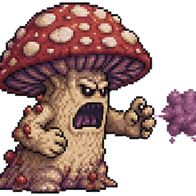
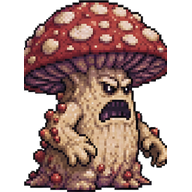
Arregla el jefe que miraba al revés y la serpiente gigante
TRES BUGS, LOS TRES MÍOS.

1. El jefe miraba siempre para el mismo lado.
   boss.js calculaba `e.facing` en update y el draw lo ignoraba: nunca hacía
   scale(-1,1). Con alien.png no se notaba; con un hongo que tiene cara, canta.

2. El jefe cambiaba de aspecto al atacar.
   Usé cuadros de hongoAttack.png, que es OTRO hongo: cap más claro, cuerpo
   verdoso, ojos verdes y esporas verdes, contra el cap oscuro y el cuerpo
   leñoso de hongo.png/hongo2.png. Ahora las cuatro animaciones salen del mismo
   diseño. Y el cuadro que había puesto como "golpeado" era en realidad el que
   LANZA la espora — por eso parecía que disparaba al recibir daño.

3. La serpiente del nivel 2 se veía enorme.
   serpiente.js escala por el alto DE LA IMAGEN (`dh = h*2.8; dw = dh*ar`), así
   que el aire del PNG no es relleno inocente: es la calibración del tamaño en
   pantalla. El sprite viejo tenía 40% de aire y al recortar al contenido la
   serpiente pasó a dibujarse 1,7 veces más grande.

   Se restauró el encuadre: el bicho vuelve a ocupar el 60% del alto, que es lo
   que tenía el idle original. De paso queda parejo entre animaciones — el arte
   viejo iba de 40% a 68% según el estado, o sea que ya cambiaba de tamaño solo.
   Mismo arreglo en el fantasma (82%, como el original).

Se suma pad_to_content_fraction() a la herramienta, que es lo que faltaba para
esta familia de enemigos.

NOTA: el jefe no dispara nada. boss.js sólo tiene patrullar, perseguir,
[…]

diff --git a/js/enemies/boss.js b/js/enemies/boss.js
@@ -17,7 +17,7 @@ const Boss = (() => {
   const ANIMS = {
     idle:   ['hongo_idle0', 'hongo_idle01'],
     walk:   ['hongo_walk0', 'hongo_walk01', 'hongo_walk02', 'hongo_walk03'],
-    attack: ['hongo_attack0', 'hongo_attack01', 'hongo_attack02', 'hongo_attack03'],
+    attack: ['hongo_attack0', 'hongo_attack01', 'hongo_attack02'],
     hit:    ['hongo_hit0'],
   };
   const FPS = { idle: 4, walk: 8, attack: 10, hit: 6 };
@@ -175,7 +175,10 @@ const Boss = (() => {
     ctx.translate(x + w/2, y + h/2 + bob);
 
     const scale = 1 + (bossPhase - 1) * 0.08;
-    ctx.scale(scale, scale);
+    // Los sprites miran a la DERECHA; se espeja cuando camina hacia la izquierda.
+    // Antes no se espejaba nunca: `facing` se calculaba en update y el draw lo
+    // ignoraba, así que el jefe siempre miraba para el mismo lado.
+    ctx.scale(scale * (e.facing === -1 ? -1 : 1), scale);
 
     // Nube de esporas. Antes era un aura verde alienígena; ahora acompaña al
     // hongo y se pone más densa a medida que se enoja.

diff --git a/js/asset_loader.js b/js/asset_loader.js
@@ -66,7 +66,6 @@ const AssetLoader = (() => {
       { key:'hongo_attack0', src:'img/hongo_attack0.png' },
       { key:'hongo_attack01', src:'img/hongo_attack01.png' },
       { key:'hongo_attack02', src:'img/hongo_attack02.png' },
-      { key:'hongo_attack03', src:'img/hongo_attack03.png' },
       { key:'hongo_hit0', src:'img/hongo_hit0.png' },
       // Mecánicas nivel 1
       { key:'caja_cerrada', src:'img/caja_cerrada.png' },

diff --git a/tools/sprites.py b/tools/sprites.py
@@ -324,6 +324,28 @@ def pad_to_ratio(img, ratio):
     return lienzo
 
 
+def pad_to_content_fraction(img, fraccion):
+    """
+    Agrega aire arriba y abajo hasta que el bicho ocupe `fraccion` del alto.
+
+    Hace falta para los enemigos cuyo dibujado escala por el alto DE LA IMAGEN
+    (serpiente.js y fantasma.js hacen `dh = h * k; dw = dh * ar`). Ahí el aire
+    del PNG no es relleno inocente: es la calibración del tamaño en pantalla.
+
+    Recortar al contenido esos sprites los agranda. La serpiente del nivel 2
+    tenía 40% de aire y al recortarla pasó a dibujarse 1,7 veces más grande.
+    """
+    contenido = img.getbbox()
+    if not contenido:
+        return img
+    img = img.crop(contenido)
+
+    alto = max(1, round(img.height / fraccion))
+    lienzo = Image.new("RGBA", (img.width, alto), (0, 0, 0, 0))
+    lienzo.alpha_composite(img, (0, (alto - img.height) // 2))
+    return lienzo
+
+
 # ── Hojas de sprites ─────────────────────────────────────────────────────────
 
 def split_sheet(img, cols, rows):
